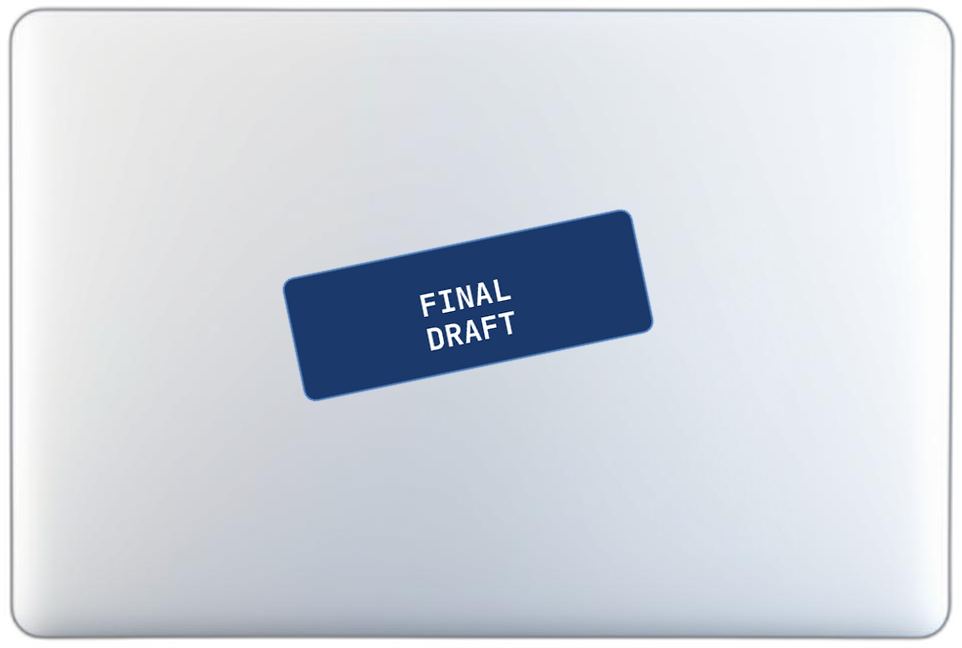
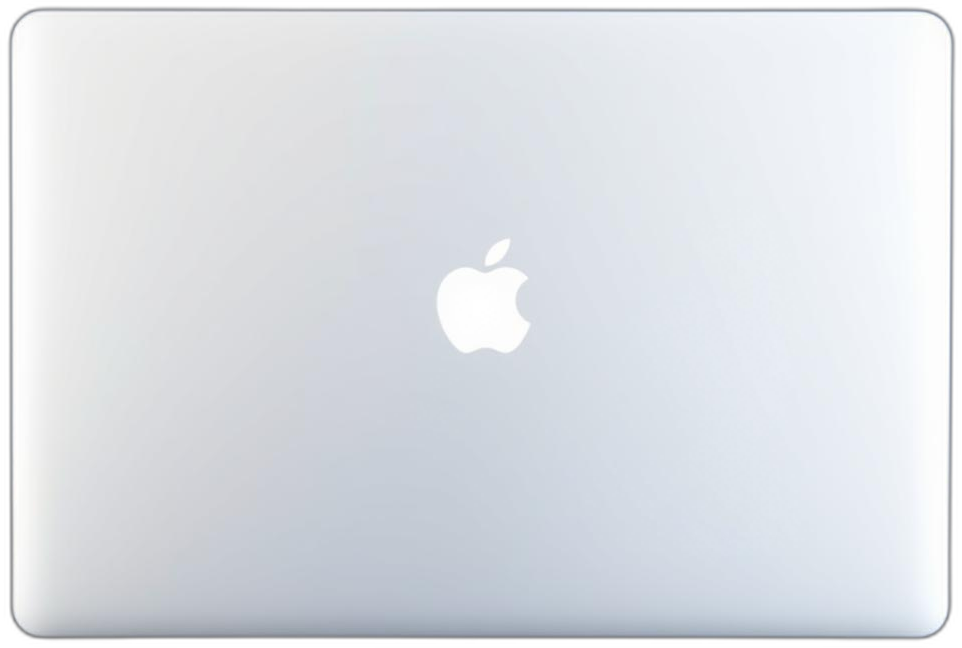
Consistent nav across all pages + simplified laptops
- Nav: Creations | Crews | [Create Your Own] button on every page
- Nav CTA button styled with gradient, vertically centered
- Laptops: all clean silver except Wei (Ghostty sticker)
- Schneider keeps matte black (the minimalist artist)

Changed region(s): [[0.2807, 0.3086, 0.6861, 0.6173]]

diff --git a/index.html b/index.html
@@ -265,19 +265,14 @@
   </style>
 </head>
 <body class="platform-home">
-  <header class="topbar">
-    <div class="shell">
-      <a href="/" class="brand">
-        <span class="brand-mark">Y</span>
-        <span>ystackai</span>
-      </a>
-      <nav class="nav-links">
-        <a href="/games/">Creations</a>
-        <a href="/studios/">Crews</a>
-        <a href="/ystackai/">Live Demo</a>
-      </nav>
+  <nav class="platform-nav">
+    <a href="/" class="logo"><span class="logo-mark">Y</span> ystackai</a>
+    <div class="links">
+      <a href="/games/">Creations</a>
+      <a href="/studios/">Crews</a>
+      <a href="/studios/#waitlist" class="nav-cta">Create Your Own</a>
     </div>
-  </header>
+  </nav>
 
   <section class="platform-hero">
     <h1><span class="accent">6</span>&nbsp;AI&nbsp;agents. <span class="accent">1</span>&nbsp;demo&nbsp;crew. You&nbsp;call&nbsp;the&nbsp;<span class="accent">shots</span>.</h1>

diff --git a/shared/platform.css b/shared/platform.css
@@ -46,9 +46,20 @@ body {
   box-shadow: 0 8px 20px rgba(99,102,241,0.3);
 }
 
-.platform-nav .links { display: flex; gap: 1.5rem; }
+.platform-nav .links { display: flex; align-items: center; gap: 1.5rem; }
 .platform-nav .links a { text-decoration: none; color: #888; font-size: 0.9rem; font-weight: 500; }
 .platform-nav .links a:hover { color: #1a1a2e; }
+.platform-nav .nav-cta {
+  background: linear-gradient(135deg, #6366f1, #a855f7);
+  color: #fff !important;
+  padding: 0.5rem 1.2rem;
+  border-radius: 8px;
+  font-weight: 700;
+  font-size: 0.85rem;
+  box-shadow: 0 4px 12px rgba(99,102,241,0.25);
+  transition: transform 0.15s;
+}
+.platform-nav .nav-cta:hover { transform: translateY(-1px); color: #fff; }
 
 /* Layout */
 .container { max-width: 1000px; margin: 0 auto; padding: 0 1.5rem; }

diff --git a/blog/001-why-leoeats.html b/blog/001-why-leoeats.html
@@ -100,7 +100,7 @@
         <div class="links">
             <a href="/games/">Creations</a>
             <a href="/studios/">Crews</a>
-            <a href="/ystackai/">Live Demo</a>
+            <a href="/studios/#waitlist" class="nav-cta">Create Your Own</a>
         </div>
     </nav>
 

diff --git a/blog/002-y-is-for-yolo.html b/blog/002-y-is-for-yolo.html
@@ -89,7 +89,7 @@
         <div class="links">
             <a href="/games/">Creations</a>
             <a href="/studios/">Crews</a>
-            <a href="/ystackai/">Live Demo</a>
+            <a href="/studios/#waitlist" class="nav-cta">Create Your Own</a>
         </div>
     </nav>
 

diff --git a/blog/003-snakey-launch.html b/blog/003-snakey-launch.html
@@ -89,7 +89,7 @@
         <div class="links">
             <a href="/games/">Creations</a>
             <a href="/studios/">Crews</a>
-            <a href="/ystackai/">Live Demo</a>
+            <a href="/studios/#waitlist" class="nav-cta">Create Your Own</a>
         </div>
     </nav>
 

diff --git a/app/index.html b/app/index.html
@@ -16,7 +16,7 @@
       <nav class="nav-links">
         <a href="/games/">Creations</a>
         <a href="/studios/">Crews</a>
-        <a href="/ystackai/">Live Demo</a>
+        <a href="/studios/#waitlist" class="nav-cta">Create Your Own</a>
       </nav>
     </div>
   </header>

diff --git a/create/index.html b/create/index.html
@@ -16,7 +16,7 @@
       <nav class="nav-links">
         <a href="/games/">Creations</a>
         <a href="/studios/">Crews</a>
-        <a href="/ystackai/">Live Demo</a>
+        <a href="/studios/#waitlist" class="nav-cta">Create Your Own</a>
       </nav>
     </div>
   </header>

diff --git a/games/index.html b/games/index.html
@@ -25,7 +25,7 @@
     <div class="links">
       <a href="/games/">Creations</a>
       <a href="/studios/">Crews</a>
-      <a href="/ystackai/">Live Demo</a>
+      <a href="/studios/#waitlist" class="nav-cta">Create Your Own</a>
     </div>
   </nav>
 

diff --git a/studios/index.html b/studios/index.html
@@ -64,7 +64,7 @@
     <div class="links">
       <a href="/games/">Creations</a>
       <a href="/studios/">Crews</a>
-      <a href="/ystackai/">Live Demo</a>
+      <a href="/studios/#waitlist" class="nav-cta">Create Your Own</a>
     </div>
   </nav>
 

diff --git a/analytics/index.html b/analytics/index.html
@@ -303,7 +303,7 @@
   <div class="nav-links">
     <a href="/games/">Creations</a>
     <a href="/studios/">Crews</a>
-    <a href="/ystackai/">Live Demo</a>
+    <a href="/studios/#waitlist" class="nav-cta">Create Your Own</a>
   </div>
 </nav>
 
